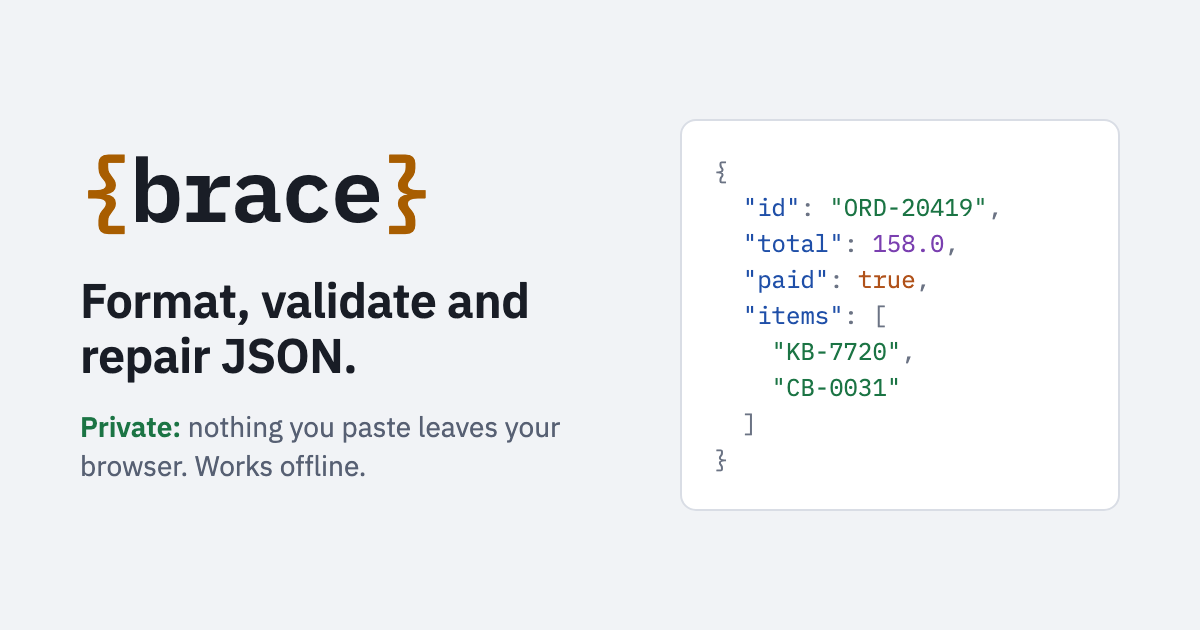
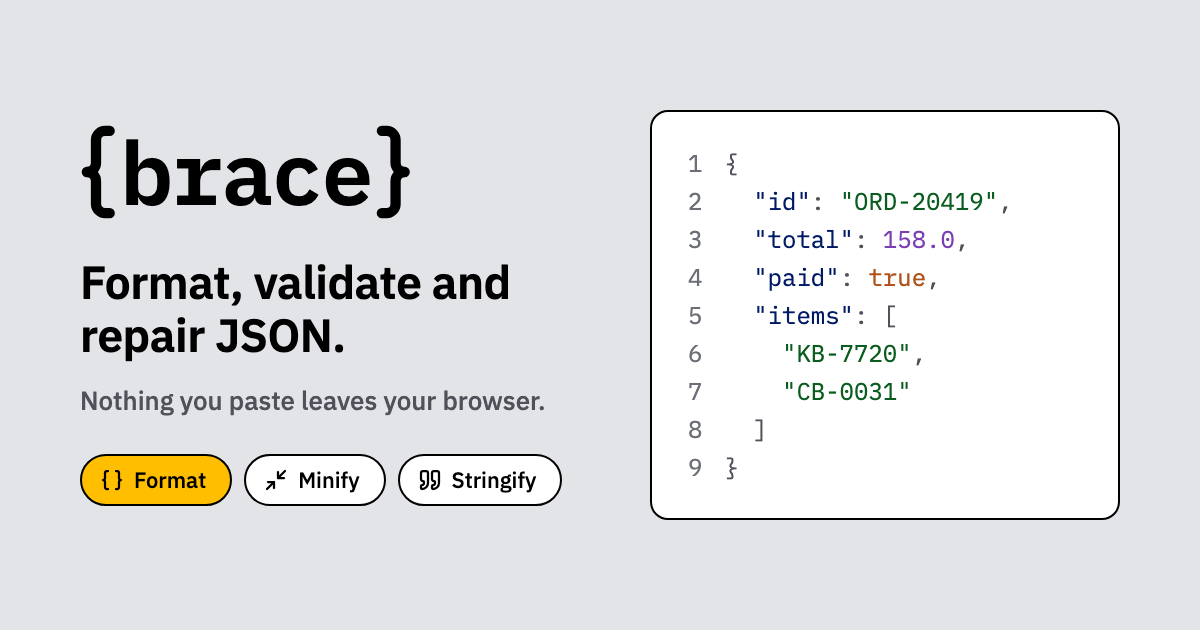
Redraw the link-preview image in the new look
The image shown when the link is shared in chats and social networks
now matches the site: grey page, {brace} with Lucide braces, the
Format / Minify / Stringify pills and a JSON card with the new syntax
colours. Its URL carries the release version so networks fetch the
new image instead of a cached one.

Release 2026-11-13.10.

diff --git a/index.html b/index.html
@@ -7,7 +7,7 @@
        connect-src 'none' blocks fetch, XHR, WebSocket and beacons, so pasted JSON cannot leave
        the browser. The sha256 values allow exactly the two inline scripts below;
        scripts/release.py recalculates them, so never edit those scripts without running it. -->
-  <meta http-equiv="Content-Security-Policy" content="default-src 'none'; script-src 'self' 'sha256-XsPPtFbMHos+zZnvwBNAhJjVg34+CpXzOVRAkwQtmBc=' 'sha256-g9vYPTRpmS4IoUbgkvXPTggA0PL0cQiEHHgHdFAlprQ='; style-src 'self'; font-src 'self'; img-src 'self'; manifest-src 'self'; worker-src 'self'; connect-src 'none'; form-action 'none'; base-uri 'none'">
+  <meta http-equiv="Content-Security-Policy" content="default-src 'none'; script-src 'self' 'sha256-XsPPtFbMHos+zZnvwBNAhJjVg34+CpXzOVRAkwQtmBc=' 'sha256-xqklX8abjRU2eU2Xw8e9kJS+XgO4e5nL6hWaZaYj5MQ='; style-src 'self'; font-src 'self'; img-src 'self'; manifest-src 'self'; worker-src 'self'; connect-src 'none'; form-action 'none'; base-uri 'none'">
 
   <title>Brace JSON Formatter</title>
   <meta name="description" content="Format, validate and repair JSON in your browser. Private: nothing you paste is uploaded, and it works offline.">
@@ -18,13 +18,13 @@
   <meta property="og:title" content="Brace JSON Formatter">
   <meta property="og:description" content="Format, validate and repair JSON. Private: nothing you paste leaves your browser.">
   <meta property="og:url" content="https://tonygale-programming.github.io/brace/">
-  <meta property="og:image" content="https://tonygale-programming.github.io/brace/icons/preview.png">
+  <meta property="og:image" content="https://tonygale-programming.github.io/brace/icons/preview.png?v=2026-11-13.10">
   <meta property="og:image:width" content="1200">
   <meta property="og:image:height" content="630">
   <meta name="twitter:card" content="summary_large_image">
 
   <!-- Icons and installing as an app -->
-  <link rel="icon" href="icons/icon.svg?v=2026-11-13.9" type="image/svg+xml">
+  <link rel="icon" href="icons/icon.svg?v=2026-11-13.10" type="image/svg+xml">
   <link rel="apple-touch-icon" href="icons/apple-touch-icon.png">
   <link rel="manifest" href="manifest.webmanifest">
   <meta name="theme-color" content="#e3e4e8" media="(prefers-color-scheme: light)">
@@ -46,24 +46,24 @@
   <!-- Every own file carries ?v=<release>. Browsers cache files for 10 minutes, so a new
        release needs new URLs or visitors get the new page with old styles or scripts.
        Run scripts/release.py before pushing: see "Releasing" in the README. -->
-  <link rel="stylesheet" href="styles.css?v=2026-11-13.9">
+  <link rel="stylesheet" href="styles.css?v=2026-11-13.10">
   <script type="importmap">
     {
       "imports": {
-        "./js/json-engine.js": "./js/json-engine.js?v=2026-11-13.9",
-        "./js/syntax-checker.js": "./js/syntax-checker.js?v=2026-11-13.9",
-        "./js/editor.js": "./js/editor.js?v=2026-11-13.9",
-        "./js/error-card.js": "./js/error-card.js?v=2026-11-13.9",
-        "./js/status-bar.js": "./js/status-bar.js?v=2026-11-13.9",
-        "./js/highlighter.js": "./js/highlighter.js?v=2026-11-13.9",
-        "./js/tree-view.js": "./js/tree-view.js?v=2026-11-13.9",
-        "./js/notifications.js": "./js/notifications.js?v=2026-11-13.9",
-        "./js/keyboard.js": "./js/keyboard.js?v=2026-11-13.9",
-        "./js/download.js": "./js/download.js?v=2026-11-13.9",
-        "./js/storage.js": "./js/storage.js?v=2026-11-13.9",
-        "./js/html.js": "./js/html.js?v=2026-11-13.9",
-        "./js/theme.js": "./js/theme.js?v=2026-11-13.9",
-        "./js/offline.js": "./js/offline.js?v=2026-11-13.9"
+        "./js/json-engine.js": "./js/json-engine.js?v=2026-11-13.10",
+        "./js/syntax-checker.js": "./js/syntax-checker.js?v=2026-11-13.10",
+        "./js/editor.js": "./js/editor.js?v=2026-11-13.10",
+        "./js/error-card.js": "./js/error-card.js?v=2026-11-13.10",
+        "./js/status-bar.js": "./js/status-bar.js?v=2026-11-13.10",
+        "./js/highlighter.js": "./js/highlighter.js?v=2026-11-13.10",
+        "./js/tree-view.js": "./js/tree-view.js?v=2026-11-13.10",
+        "./js/notifications.js": "./js/notifications.js?v=2026-11-13.10",
+        "./js/keyboard.js": "./js/keyboard.js?v=2026-11-13.10",
+        "./js/download.js": "./js/download.js?v=2026-11-13.10",
+        "./js/storage.js": "./js/storage.js?v=2026-11-13.10",
+        "./js/html.js": "./js/html.js?v=2026-11-13.10",
+        "./js/theme.js": "./js/theme.js?v=2026-11-13.10",
+        "./js/offline.js": "./js/offline.js?v=2026-11-13.10"
       }
     }
   </script>
@@ -177,6 +177,6 @@
     integrity="sha384-ctyn1nJHmrUzPGMF/9OFj4kWb28qMVVUo8mxOFFsucMChxe5/pHDOpj/EKKPzQOG"></script>
 
   <!-- App code. Modules run after the page and the libraries above have loaded. -->
-  <script type="module" src="js/main.js?v=2026-11-13.9"></script>
+  <script type="module" src="js/main.js?v=2026-11-13.10"></script>
 </body>
 </html>

diff --git a/service-worker.js b/service-worker.js
@@ -6,7 +6,7 @@
  * Each release gets its own cache, and older caches are deleted when it takes over.
  */
 
-const RELEASE = '2026-11-13.9';
+const RELEASE = '2026-11-13.10';
 const CACHE_PREFIX = 'brace-';
 const CACHE_NAME = `${CACHE_PREFIX}${RELEASE}`;
 const PAGE_URL = './';

diff --git a/CHANGELOG.md b/CHANGELOG.md
@@ -5,7 +5,7 @@ then changes behind the scenes. Release versions match the `?v=` value in `index
 
 ## 13 November 2026
 
-Releases `2026-11-13.1` to `2026-11-13.9`.
+Releases `2026-11-13.1` to `2026-11-13.10`.
 
 **New**
 - **Keyboard shortcuts** that browsers leave free: `⇧⌥F` Format (or `⌘Enter`), `⇧⌥M` Minify, `⇧⌥S` Stringify,
@@ -20,6 +20,7 @@ Releases `2026-11-13.1` to `2026-11-13.9`.
 
 **Improved**
 - New app icon by Tony: black Lucide braces on yellow, for the browser tab and the installed app.
+- The link-preview image shown in chats and social networks uses the new look.
 - In tree view, Format, Minify, Stringify and Indent are disabled, because they only change the text, which
   the tree hides. Sort keys stays on, since it reorders the tree too.
 - Messages at the bottom are plain text, without buttons. ⌘Z undoes Repair, Clear and Sample like any other change.
